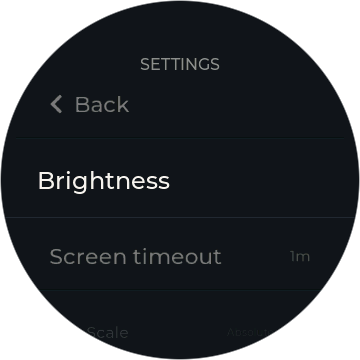
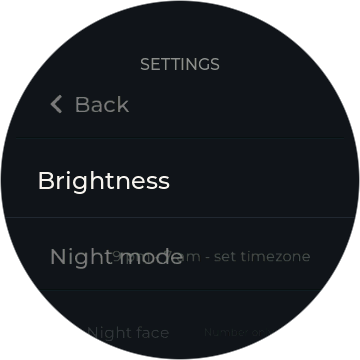
sim: scenarios for the layout audit (S1-S9, timezone, night-face)
Claude-Session: https://claude.ai/code/session_01V4hYxvndehLHYJkuAyhT2W

Changed region(s): [[0.1222, 0.6722, 0.8556, 0.7639], [0.2444, 0.9167, 0.3667, 0.9472], [0.3972, 0.9167, 0.4583, 0.9472]]

diff --git a/simulator/main.c b/simulator/main.c
@@ -210,6 +210,12 @@ static void apply_baseline(void)
     // About/Pad row -- sim_state_reset()'s own fresh-device default,
     // reapplied the same way it's seeded there.
     dial_state_set_pad_url(DIAL_PAD_DEFAULT_BASE_URL);   // also restores PH_READY
+    // scenario_pad_discovery / scenario_pad_degraded_real leave a phase_err
+    // and retry countdown behind; dial_state_set_pad_url() above only
+    // resets the phase, so clear the text too or the next PH_DEGRADED
+    // render would echo a stale reason.
+    st->phase_err[0] = '\0';
+    st->retry_in_s = 0;
 
     st->zone_present[ZONE_A] = true;
     st->zone_present[ZONE_B] = true;
@@ -361,6 +367,52 @@ static void scenario_dial_relative(void)
     snapshot("dial-relative");
 }
 
+// The Home face in °C (Settings -> Units), at 20.0°C: the widest absolute
+// numeral the 88px font produces ("20.0", 191px -- only 1-heavy values are
+// narrower) and the 2026-09-04 layout audit's §1a worst case for the unit
+// label, which used to sit at a fixed screen slot the digits overprinted.
+// Bounces through SCR_MENU first: the previous scenario ended on this same
+// (SCR_DIAL, ZONE_A) pair and ui_router_go() no-ops on an identical one.
+static void scenario_dial_celsius(void)
+{
+    apply_baseline();
+    ui_router_go(SCR_MENU, NULL, LV_SCR_LOAD_ANIM_NONE);
+    pump_ms(100);
+    app_state_t *st = sim_state_ptr();
+    st->units_c = true;
+    st->ui_zone = ZONE_A;
+    zone_state_t *a = &st->zones[ZONE_A];
+    a->on = true;
+    a->temp_dc = 200;     // 20.0C
+    a->actual_c = 20.0f;  // at target: HOLDING
+    st->generation++;
+    ui_router_go(SCR_DIAL, (void *)(uintptr_t)ZONE_A, LV_SCR_LOAD_ANIM_NONE);
+    pump_ms(600);
+    snapshot("dial-celsius");
+}
+
+// The Home face in RELATIVE scale at the +15 rail (DIAL_REL_MAX_DC, 42.0°C):
+// the widest relative numeral ("+15" -- three glyphs, the spliced '+' plus
+// the wide '1'/'5'), the other §1a collision case for the "LEVEL" suffix.
+// Same SCR_MENU bounce as scenario_dial_celsius, same reason.
+static void scenario_dial_relative_max(void)
+{
+    apply_baseline();
+    ui_router_go(SCR_MENU, NULL, LV_SCR_LOAD_ANIM_NONE);
+    pump_ms(100);
+    app_state_t *st = sim_state_ptr();
+    st->rel_mode = true;
+    st->ui_zone = ZONE_A;
+    zone_state_t *a = &st->zones[ZONE_A];
+    a->on = true;
+    a->temp_dc = DIAL_REL_MAX_DC;   // 420 -> level +15
+    a->actual_c = 26.0f;            // below setpoint: still warming
+    st->generation++;
+    ui_router_go(SCR_DIAL, (void *)(uintptr_t)ZONE_A, LV_SCR_LOAD_ANIM_NONE);
+    pump_ms(600);
+    snapshot("dial-relative-max");
+}
+
 // Also documents the M7 permanent "Update" row (replaces the M6 conditional
 // "Install X.Y.Z" row — confirmation moved into SCR_UPDATE itself, this row
 // is now pure navigation): sets the OTA status to available with a pending
@@ -432,6 +484,26 @@ static void scenario_update_prompt(void)
     snapshot("update-prompt");
 }
 
+// The Update submenu with the last check FAILED: "Check for updates" grows
+// its third line (the error, LONG_DOT, warning tint) under label + value --
+// the tallest state that row has, and the one the 2026-09-04 layout audit
+// (§5a) measured against the 76px row. No knob-walk: the rotor already
+// opens on that row (scr_update.c's dial_list_settle(s_list, 1); row order
+// Back(0)/Check for updates(1)/Installed(2)/Auto-update(3)/Beta builds(4)),
+// so the three lines render in the focused, unzoomed slot.
+static void scenario_update_failed(void)
+{
+    apply_baseline();
+    app_state_t *st = sim_state_ptr();
+    st->ota.status = OTA_FAILED;
+    snprintf(st->ota.err, sizeof(st->ota.err), "check failed (HTTP -1)");
+    st->generation++;
+    ui_router_go(SCR_UPDATE, NULL, LV_SCR_LOAD_ANIM_NONE);
+    pump_ms(300);
+    pump_until_idle(800);
+    snapshot("update-failed");
+}
+
 static void scenario_settings(void)
 {
     apply_baseline();
@@ -440,22 +512,91 @@ static void scenario_settings(void)
     snapshot("settings");
 }
 
-// Knob-walked down to the new "Pad Address"/"Bed Mode" pair (Back(0)/
-// Adjustment mode(1)/Brightness(2)/Screen timeout(3)/Scale(4)/Units(5)/
-// Haptics(6)/Rotation(7)/Pad Address(8)/Bed Mode(9)/Factory reset(10)) —
-// the rotor opens on Adjustment mode (index 1, dial_list_settle in
-// scr_settings.c's create()), so +7 detents lands focus on Pad Address with
-// Rotation/Bed Mode as its zoomed/faded neighbors, putting both new rows in
-// frame at once.
+// Knob-walked down to the "Pad Address"/"Bed Mode" pair. Row order as of
+// 2026-09-02 (Adjustment mode hidden; Night mode / Night face / Screen
+// timeout added -- scr_settings.c's create(); Night face is present because
+// sim_state_reset() ships night_on = true): Back(0)/Brightness(1)/Night
+// mode(2)/Night face(3)/Screen timeout(4)/Scale(5)/Units(6)/Haptics(7)/
+// Rotation(8)/Timezone(9)/Pad Address(10)/Bed Mode(11)/Factory reset(12).
+// The rotor opens on Brightness (index 1, dial_list_settle in create()), so
+// +9 detents lands focus on Pad Address with Timezone/Bed Mode as its
+// zoomed/faded neighbors, putting both rows in frame at once. (The earlier
+// +7 dated from the pre-2026-09-02 list and had drifted onto Rotation --
+// docs/REPORT-screen-layout-audit.md's "Stale screenshots".)
 static void scenario_settings_pad(void)
 {
     apply_baseline();
     ui_router_go(SCR_SETTINGS, NULL, LV_SCR_LOAD_ANIM_NONE);
     pump_ms(300);
-    sim_knob(7);
+    sim_knob(9);
     pump_ms(300);
     pump_until_idle(800);
     snapshot("settings-pad");
+}
+
+// Settings' Timezone row showing a RAW IANA name rather than a curated
+// label -- the state a Wi-Fi-portal-applied zone outside scr_timezone.c's
+// 11 rows leaves behind (docs/SPEC-timezone-source.md "Displaying the
+// current value"; docs/REPORT-screen-layout-audit.md §2b). The only
+// simulator hook that fakes a persisted zone is sim_set_fake_iana_tz()
+// (stubs.c); dial_time_valid() stays false, so the Night mode row's §7
+// annotation reads "no clock" here instead of "set timezone" -- both are
+// real states and both have to fit. The zone has to be one NOT in
+// dial_state.h's DIAL_TZ_IANA[] or the row shows the curated label instead
+// (the audit's "America/Los_Angeles" example is in the list, and renders as
+// "Pacific"); America/Mexico_City is a real portal-detectable zone of the
+// same 19-character width, so the audit's §2b overlap numbers still apply.
+// Same row indices as scenario_settings_pad: +8 from Brightness(1) is
+// Timezone(9). Bounces via SCR_MENU because the previous scenario ended on
+// (SCR_SETTINGS, NULL).
+static void scenario_settings_timezone_raw(void)
+{
+    apply_baseline();
+    ui_router_go(SCR_MENU, NULL, LV_SCR_LOAD_ANIM_NONE);
+    pump_ms(100);
+    sim_set_fake_iana_tz("America/Mexico_City");
+    ui_router_go(SCR_SETTINGS, NULL, LV_SCR_LOAD_ANIM_NONE);
+    pump_ms(300);
+    sim_knob(8);
+    pump_ms(300);
+    pump_until_idle(800);
+    snapshot("settings-timezone-raw");
+    sim_set_fake_iana_tz(NULL);   // back to "Not set" for every scenario after this one
+}
+
+// The curated timezone picker (scr_timezone.c), opened from Settings (arg 0
+// -- see that file's s_origin packing). Plain navigate-and-snapshot: the
+// list had no checked-in render before the 2026-09-04 layout audit.
+static void scenario_timezone(void)
+{
+    apply_baseline();
+    ui_router_go(SCR_TIMEZONE, (void *)(uintptr_t)0 /* from Settings */, LV_SCR_LOAD_ANIM_NONE);
+    pump_ms(300);
+    pump_until_idle(800);
+    snapshot("timezone");
+}
+
+// The night-window picker (scr_night_mode.c) with night on (sim_state_reset's
+// default) and the clock invalid (stubs.c's dial_time_valid() is false), so
+// the §7 note under the title renders -- the audit's §12 seam case.
+static void scenario_night_mode(void)
+{
+    apply_baseline();
+    ui_router_go(SCR_NIGHT_MODE, NULL, LV_SCR_LOAD_ANIM_NONE);
+    pump_ms(300);
+    pump_until_idle(800);
+    snapshot("night-mode");
+}
+
+// The night-face picker (scr_night_face.c), Number only / Full. Plain
+// navigate-and-snapshot, same reason as scenario_timezone.
+static void scenario_night_face(void)
+{
+    apply_baseline();
+    ui_router_go(SCR_NIGHT_FACE, NULL, LV_SCR_LOAD_ANIM_NONE);
+    pump_ms(300);
+    pump_until_idle(800);
+    snapshot("night-face");
 }
 
 // The Pad Address text-entry screen (scr_pad_address.c), opened straight
@@ -489,6 +630,47 @@ static void scenario_pad_unreachable(void)
     ui_router_go(SCR_CONNECTING, NULL, LV_SCR_LOAD_ANIM_NONE);
     pump_ms(300);
     snapshot("pad-unreachable");
+}
+
+// The subnet-scan progress screen (scr_pad_discovery.c), mid pass 2: the
+// phase is PH_PAD_DISCOVERY and phase_err carries dial_pad_discovery.c's
+// "<headline>\n<checked>/<total>" shape, with the longer pass-2 headline
+// that wraps to two lines (docs/REPORT-screen-layout-audit.md §14). Nothing
+// opens this screen on purpose in the firmware (nav_policy does, on the
+// phase); the simulator has no nav policy, so it navigates directly.
+static void scenario_pad_discovery(void)
+{
+    apply_baseline();
+    app_state_t *st = sim_state_ptr();
+    st->phase = PH_PAD_DISCOVERY;
+    snprintf(st->phase_err, sizeof(st->phase_err),
+             "Still looking (checking more slowly)...\n137/254");
+    st->generation++;
+    ui_router_go(SCR_PAD_DISCOVERY, NULL, LV_SCR_LOAD_ANIM_NONE);
+    pump_ms(300);
+    pump_until_idle(800);
+    snapshot("pad-discovery");
+}
+
+// PH_DEGRADED with a REALISTIC reason, not scenario_pad_unreachable's short
+// "(simulated)" one: the subtitle then wraps to four lines (the echoed
+// dial_somnus error, "Retrying in 27s", "Swipe left for menu") -- the
+// tallest case scr_connecting.c's block has to centre (audit §13). Same
+// "unreachable" URL trick to get the phase, then the reason and countdown
+// overwritten with what main.c's supervisor would actually publish. The
+// address is the pad API spec's example, not any real network.
+static void scenario_pad_degraded_real(void)
+{
+    apply_baseline();
+    dial_state_set_pad_url("http://unreachable.invalid:8080");
+    app_state_t *st = sim_state_ptr();
+    snprintf(st->phase_err, sizeof(st->phase_err),
+             "Somnus pad at 192.168.1.100:8080 not responding (HTTP -1)");
+    st->retry_in_s = 27;
+    st->generation++;
+    ui_router_go(SCR_CONNECTING, NULL, LV_SCR_LOAD_ANIM_NONE);
+    pump_ms(300);
+    snapshot("pad-degraded-real");
 }
 
 // The Adjustment mode choice screen, reached from Settings' "Adjustment
@@ -580,6 +762,30 @@ static void scenario_wifi_info(void)
     ui_router_go(SCR_WIFI, NULL, LV_SCR_LOAD_ANIM_NONE);
     pump_ms(300);
     snapshot("wifi-info");
+}
+
+// SCR_WIFI's CONFIRM MODE (the "Change network" tap): body copy, Continue,
+// Cancel. Knob-walked from the opening focus (Network, index 1) down three
+// rows to "Change network" (index 4: Back/Network/IP/Signal/Change
+// network), then tapped at the focused row's centre through the same
+// pointer indev scr_passkey's pre-fill uses -- the real
+// row_change_network_cb path, not a reach into the screen's statics. Had
+// no checked-in render before the 2026-09-04 audit (§6). Bounces via
+// SCR_MENU: the previous scenario ended on this same (SCR_WIFI, NULL).
+static void scenario_wifi_confirm(void)
+{
+    apply_baseline();
+    ui_router_go(SCR_MENU, NULL, LV_SCR_LOAD_ANIM_NONE);
+    pump_ms(100);
+    ui_router_go(SCR_WIFI, NULL, LV_SCR_LOAD_ANIM_NONE);
+    pump_ms(300);
+    sim_knob(3);
+    pump_ms(300);
+    pump_until_idle(800);
+    sim_tap(180, 180);   // the focused "Change network" row
+    pump_ms(300);
+    pump_until_idle(800);
+    snapshot("wifi-confirm");
 }
 
 static void scenario_about(void)
@@ -763,19 +969,29 @@ int main(void)
     scenario_dial();
     scenario_dial_update();
     scenario_dial_relative();
+    scenario_dial_celsius();
+    scenario_dial_relative_max();
     scenario_menu();
     scenario_update();
     scenario_update_prompt();
+    scenario_update_failed();
     scenario_settings();
     scenario_settings_pad();
+    scenario_settings_timezone_raw();
+    scenario_timezone();
+    scenario_night_mode();
+    scenario_night_face();
     scenario_pad_address();
     scenario_pad_unreachable();
+    scenario_pad_discovery();
+    scenario_pad_degraded_real();
     scenario_adjust_mode();
     scenario_brightness_menu();
     scenario_settings_brightness();
     scenario_settings_brightness_clock();
     scenario_settings_brightness_clock_off();
     scenario_wifi_info();
+    scenario_wifi_confirm();
     scenario_about();
     scenario_about_wifi_worst();
     scenario_about_wifi_real();

diff --git a/simulator/stubs.c b/simulator/stubs.c
@@ -25,8 +25,28 @@
 
 /* ---- dial_time ---------------------------------------------------------- */
 // Settings' Timezone row and the picker read these; the simulator has no
-// SNTP and no persisted zone, so it renders the honest "Not set" state.
-bool dial_time_get_iana_tz(char *out, size_t sz) { (void)out; (void)sz; return false; }
+// SNTP and no persisted zone, so it renders the honest "Not set" state --
+// except when a scenario has installed a fake zone via sim_set_fake_iana_tz()
+// (sim_state.h), the one hook that lets settings-timezone-raw.png show the
+// raw-IANA fallback. Default (no hook) is unchanged: false.
+static char s_fake_iana[48];
+static bool s_fake_iana_set;
+
+void sim_set_fake_iana_tz(const char *iana)
+{
+    if (!iana) { s_fake_iana_set = false; return; }
+    strncpy(s_fake_iana, iana, sizeof(s_fake_iana) - 1);
+    s_fake_iana[sizeof(s_fake_iana) - 1] = '\0';
+    s_fake_iana_set = true;
+}
+
+bool dial_time_get_iana_tz(char *out, size_t sz)
+{
+    if (!s_fake_iana_set || !out || sz == 0) return false;
+    strncpy(out, s_fake_iana, sz - 1);
+    out[sz - 1] = '\0';
+    return true;
+}
 bool dial_time_get_posix_tz(char *out, size_t sz) { (void)out; (void)sz; return false; }
 bool dial_time_set_iana_tz(const char *iana) { (void)iana; return true; }
 // No zone ever persisted here (see the two getters above), so this is

diff --git a/simulator/sim_state.h b/simulator/sim_state.h
@@ -24,3 +24,11 @@ void sim_state_reset(void);
 // an SSID/RSSI combination beyond that fixed default, e.g. a worst-case
 // 32-char SSID for a layout check. Pass ssid=NULL to go back to FAKE_SCAN[0].
 void sim_set_fake_ap(const char *ssid, int8_t rssi);
+
+// Test-only override for dial_time_get_iana_tz() (stubs.c normally returns
+// false -- "no zone ever set", the honest fresh-device state). Lets one
+// scenario render Settings' Timezone row with a raw IANA name the curated
+// picker doesn't offer (the 2026-09-04 layout audit's §2b case). Pass NULL
+// to go back to the default. dial_time_valid() stays false either way: the
+// hook fakes a persisted zone, not a synced clock.
+void sim_set_fake_iana_tz(const char *iana);
